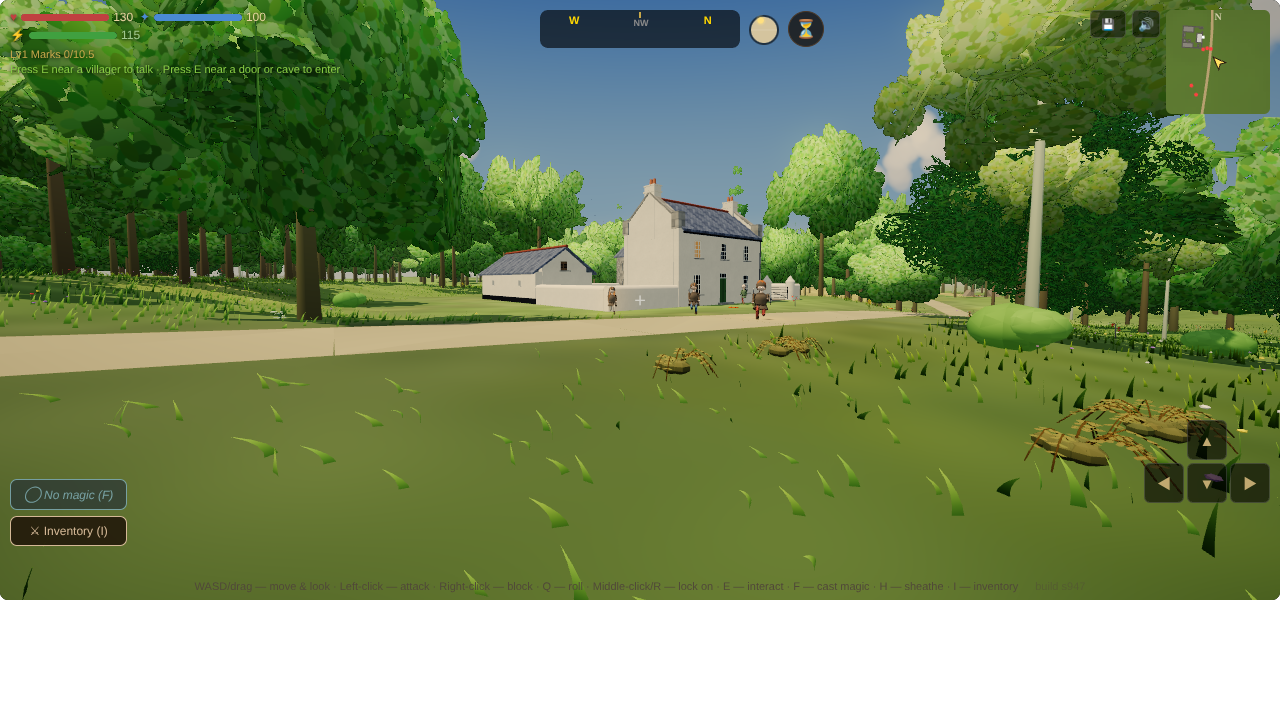
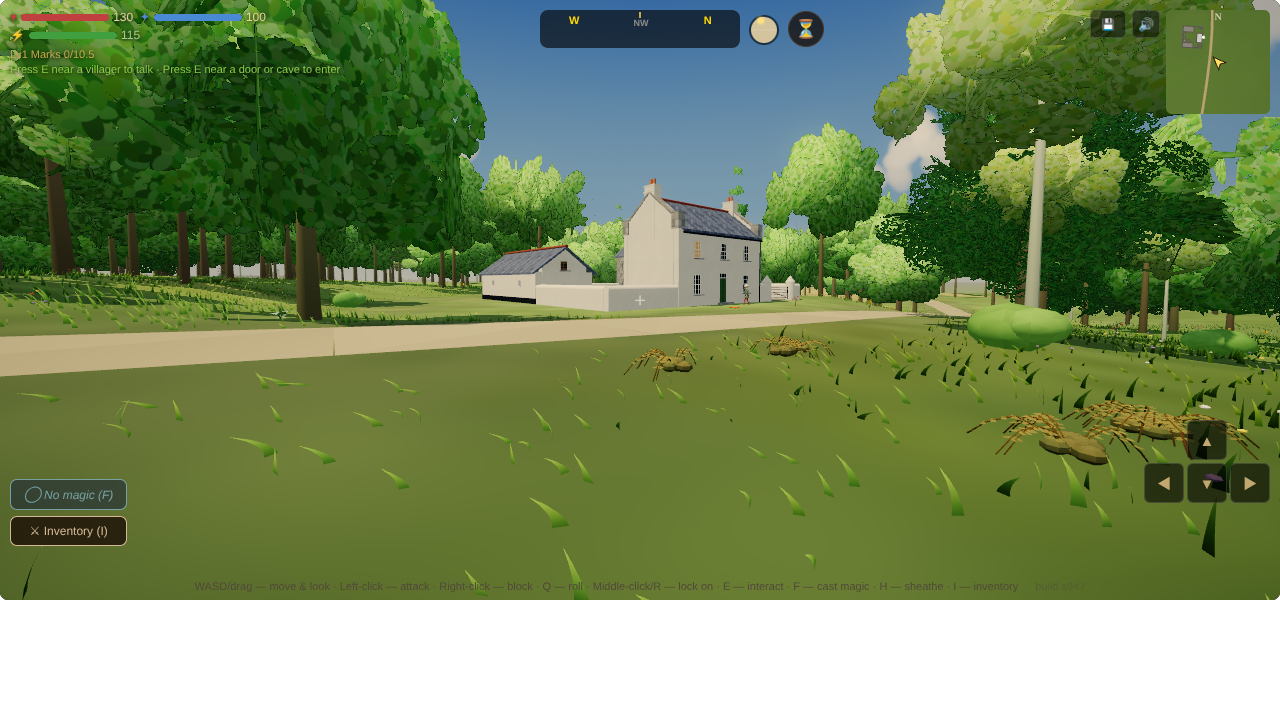
Look: Session 1470 — the lone farm's picture without the parallel load; the devlog's note on spawns corrected
Claude-Session: https://claude.ai/code/session_013bHi3azi3SSViZwBd63Jje

diff --git a/docs/devlog/1470.md b/docs/devlog/1470.md
@@ -30,8 +30,8 @@ and drops by distance like any place. `siteAnywhere` knows their ids (`c<i>_<j>_
 before. A lone farm calls it with its own stream for the farmer's name. It gets the same farmstead: 8,527 triangles in 20 draws, 18
 solids, the 126-triangle far copy from 80 m, the smoke. Its farmhouse is a home, `g_c<i>_<j>_f<n>_5000`, with its farmer and the
 farmhouse's room inside (Session 1459). The place takes the home's name, *Pádraig's Farm*. The farmer's day keeps the yard: a
-resident's "square" here is the lot's middle, 10 m round. No creature spawns within 93 m of a lone farm, as round a site's pad (the
-first picture had giant spiders in its field).
+resident's "square" here is the lot's middle, 10 m round. No foe spawns in a chunk whose middle is within 93 m of a lone farm, as round a
+site's pad (with the farm in place, the nearest foe was a boar 99 m off).
 
 With the open-country rule, 9 lone farms stand over the Gatelands' 22 cells. That is "a few" against the 108 village farms.
 
@@ -45,7 +45,8 @@ With the open-country rule, 9 lone farms stand over the Gatelands' 22 cells. Tha
   - The village farms are unchanged: 108 of 115 villages, 65.4 to 149.5 m past the lots.
 - `kitfarmhouse` 1/1 (the village farm's room, unchanged by the move into `buildFarm`).
 - `kitlots` and the smoke set (`looknew`, `saves`, `resolver`, `player`, `dungeon`, `autosave`): see the PR.
-- Picture: `docs/prototypes/kit-lonefarm-yard.png`, c4_9_f0 from its road at 10:30.
+- Picture: `docs/prototypes/kit-lonefarm-yard.png`, c4_9_f0 from across its road at 10:30. The brown shapes in the near field are
+  the ground's scatter, not foes: none stood within 99 m.
 
 ### Needs eyes
 - Whether nine is "a few". `LONE_OPEN` (0.3) and `LONE_GAP` (170 m) are the two numbers: at 0.15 there were 11, and with no
